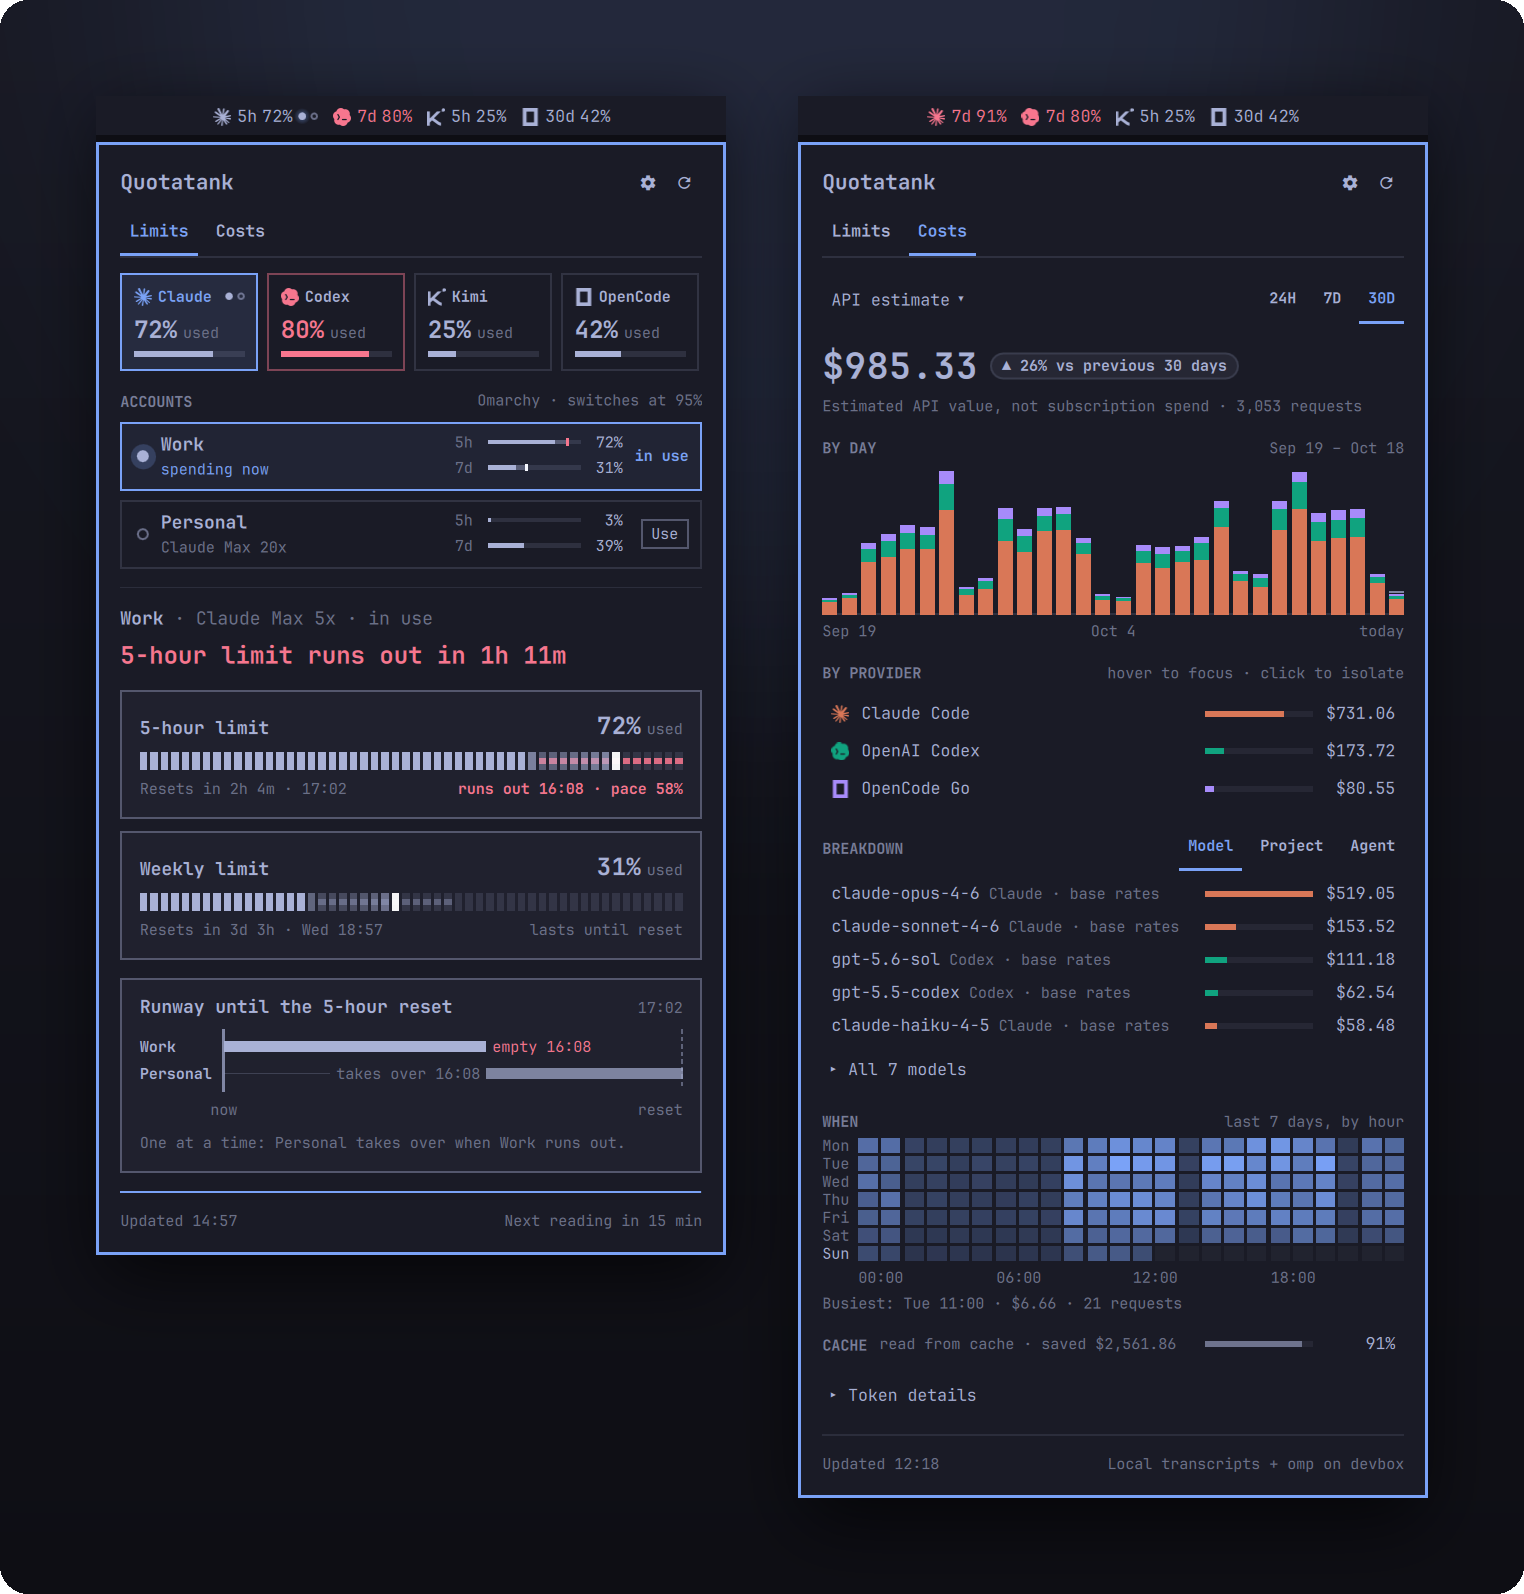
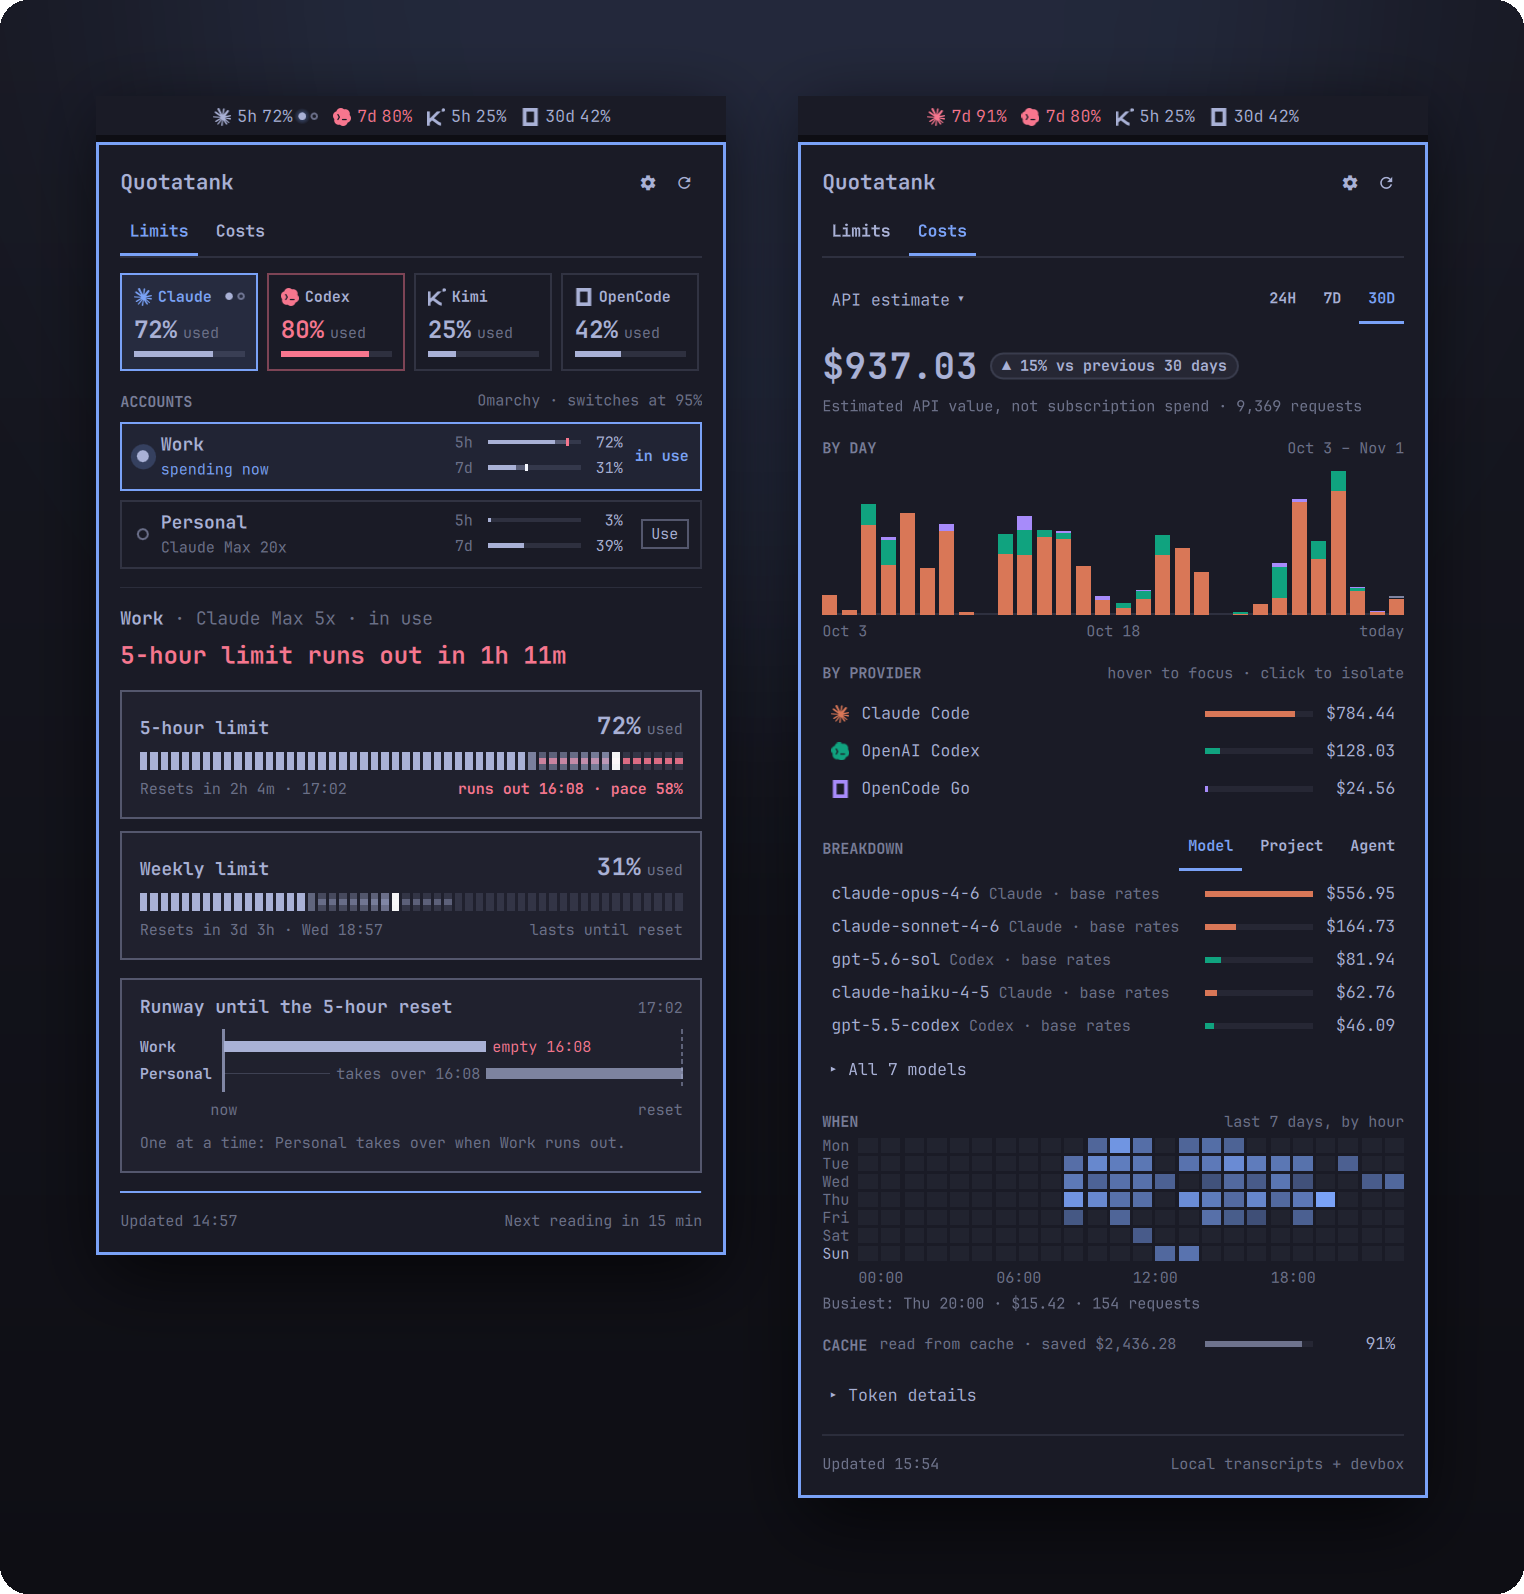
Costs images from a realistic month
The cost fixture stamped one hourly template on every day (every night cell
lit, weekends the same shape) and one provider mix. It now builds a month of
work sessions: own start and end times, lunch and meetings, late evenings,
quiet weekends, a day off, Codex and OpenCode for stretches of hours, about
$0.10 a request, and the other computer as a 3.x source.

diff --git a/README.md b/README.md
@@ -10,7 +10,7 @@
 
 </div>
 
-![The menu bar chips above the Limits panel: tiles for Claude, Codex, Kimi, and OpenCode, two Claude accounts with Work spending now and in use and Personal with room and a Use button, the headline 5-hour limit runs out in 1h 11m, limit cards with a dashed forecast, and a runway card where Personal takes over when Work runs out; beside it the Costs tab with a total 26% above the previous 30 days, a daily chart, providers, a model breakdown, and a heatmap of when you spend](https://raw.githubusercontent.com/JanitorHead/omarchy-quotatank/main/docs/screenshots/hero.png)
+![The menu bar chips above the Limits panel: tiles for Claude, Codex, Kimi, and OpenCode, two Claude accounts with Work spending now and in use and Personal with room and a Use button, the headline 5-hour limit runs out in 1h 11m, limit cards with a dashed forecast, and a runway card where Personal takes over when Work runs out; beside it the Costs tab with a total 15% above the previous 30 days, a daily chart, providers, a model breakdown, and a heatmap of when you spend](https://raw.githubusercontent.com/JanitorHead/omarchy-quotatank/main/docs/screenshots/hero.png)
 
 Quotatank reads the plan limits and prepaid balances of **50 AI coding providers** with the sign-ins and keys you already have, on this computer and on the other computers you reach over SSH: several accounts per provider, every account behind a **CLIProxyAPI** server, and everything **omp (Oh My Pi)** is signed in to. A second tab shows what your coding agents would cost at API rates, by day, model, project, and subagent.
 
@@ -150,7 +150,7 @@ Clicking a chip opens that provider. A desktop notification fires when a limit o
 
 ## Costs
 
-![Three Costs tabs: the last 30 days with a total 38% above the previous period, a daily chart by provider, providers, a model breakdown, and an hour-by-day heatmap; the same tab with OpenAI Codex isolated and the chart rescaled to it; and the breakdown by project](https://raw.githubusercontent.com/JanitorHead/omarchy-quotatank/main/docs/screenshots/costs.png)
+![Three Costs tabs: the last 30 days with a total 15% above the previous period, a daily chart by provider with quiet weekends, providers, a model breakdown, and an hour-by-day heatmap of a working week; the same tab with OpenAI Codex isolated and the chart rescaled to it; and the breakdown by project](https://raw.githubusercontent.com/JanitorHead/omarchy-quotatank/main/docs/screenshots/costs.png)
 
 Costs estimates what your recorded tokens would cost at API rates. It is not a bill, a subscription charge, or a credit balance.
 
